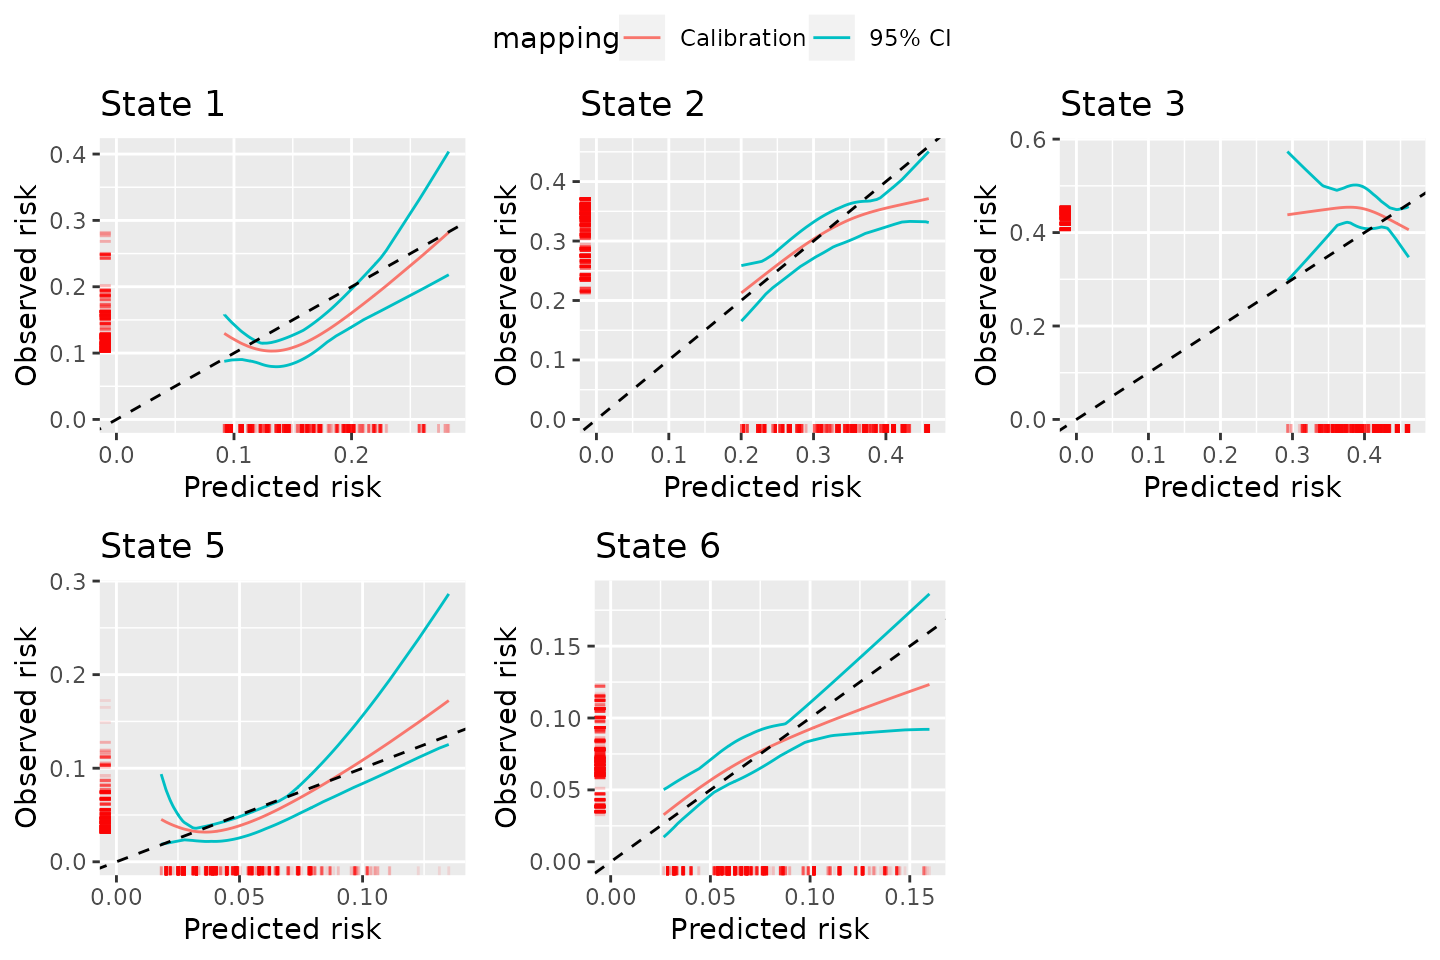
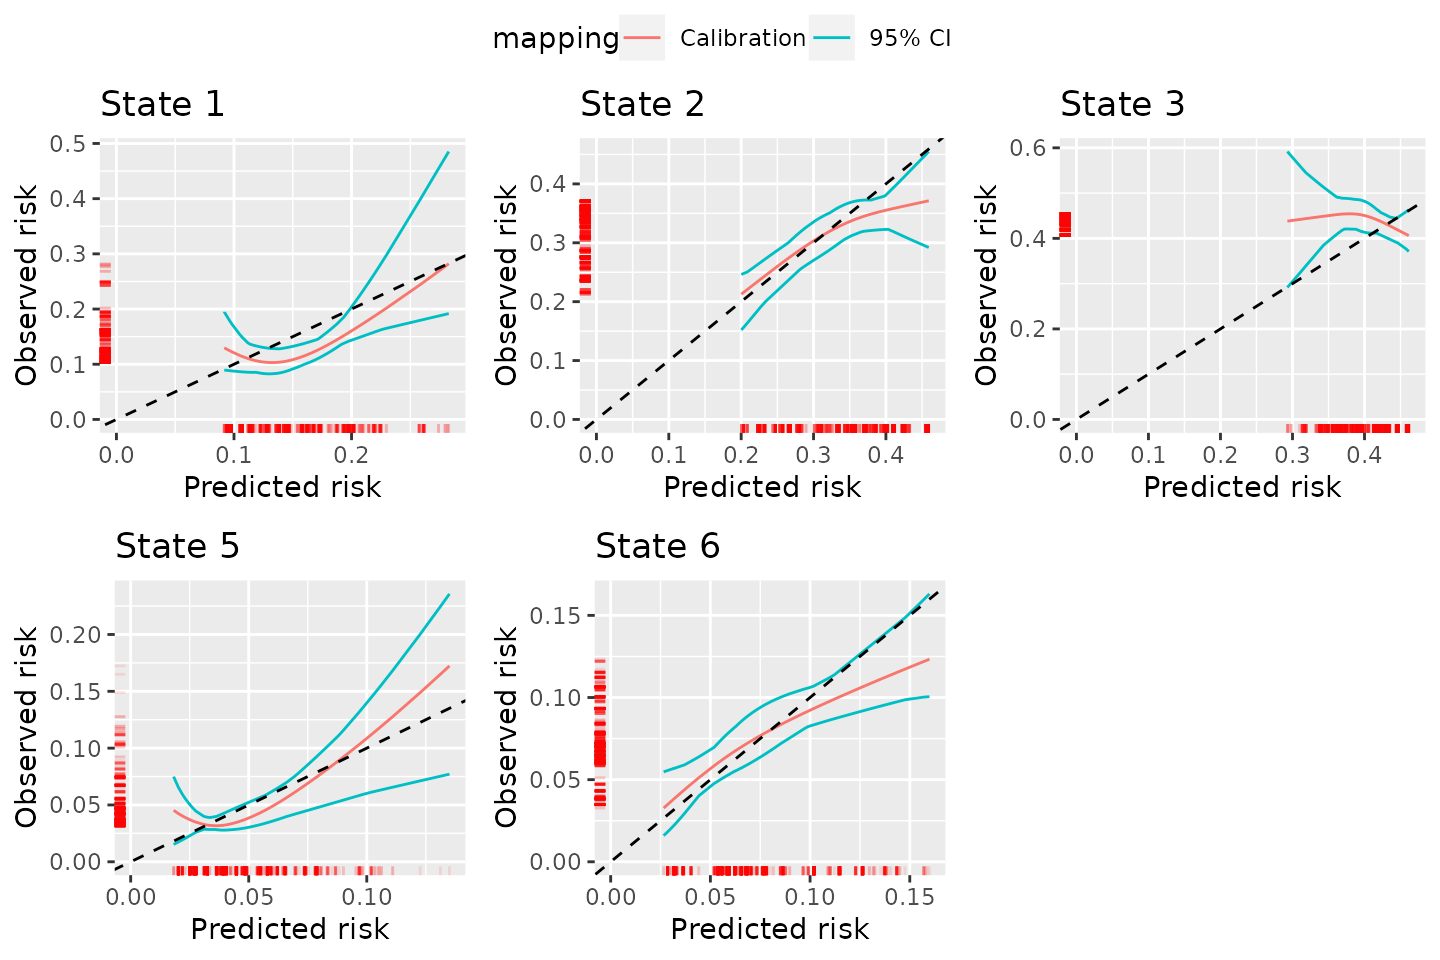
Deploying to gh-pages from @ alexpate30/calibmsm@fd2da9ec26762105f773ad9c85da25f2ff93fde9 🚀

diff --git a/reference/calib_blr.html b/reference/calib_blr.html
@@ -258,38 +258,38 @@ in the vignette XXXX.</p>
 <span class="r-out co"><span class="r-pr">#&gt;</span>   .. ..$ id       : int [1:1778] 2 4 5 7 10 13 14 16 18 19 ...</span>
 <span class="r-out co"><span class="r-pr">#&gt;</span>   .. ..$ pred     : num [1:1778] 0.114 0.1384 0.1233 0.0974 0.1137 ...</span>
 <span class="r-out co"><span class="r-pr">#&gt;</span>   .. ..$ obs      : num [1:1778] 0.11 0.104 0.105 0.124 0.11 ...</span>
-<span class="r-out co"><span class="r-pr">#&gt;</span>   .. ..$ obs.lower: num [1:1778] 0.0864 0.082 0.0827 0.0913 0.0866 ...</span>
-<span class="r-out co"><span class="r-pr">#&gt;</span>   .. ..$ obs.upper: num [1:1778] 0.136 0.135 0.13 0.165 0.136 ...</span>
+<span class="r-out co"><span class="r-pr">#&gt;</span>   .. ..$ obs.lower: num [1:1778] 0.0889 0.0831 0.0843 0.0811 0.0889 ...</span>
+<span class="r-out co"><span class="r-pr">#&gt;</span>   .. ..$ obs.upper: num [1:1778] 0.133 0.129 0.127 0.166 0.134 ...</span>
 <span class="r-out co"><span class="r-pr">#&gt;</span>   ..$ state2:'data.frame':	1778 obs. of  5 variables:</span>
 <span class="r-out co"><span class="r-pr">#&gt;</span>   .. ..$ id       : int [1:1778] 2 4 5 7 10 13 14 16 18 19 ...</span>
 <span class="r-out co"><span class="r-pr">#&gt;</span>   .. ..$ pred     : num [1:1778] 0.232 0.184 0.161 0.212 0.232 ...</span>
 <span class="r-out co"><span class="r-pr">#&gt;</span>   .. ..$ obs      : num [1:1778] 0.17 0.186 0.176 0.179 0.17 ...</span>
-<span class="r-out co"><span class="r-pr">#&gt;</span>   .. ..$ obs.lower: num [1:1778] 0.12 0.155 0.148 0.145 0.12 ...</span>
-<span class="r-out co"><span class="r-pr">#&gt;</span>   .. ..$ obs.upper: num [1:1778] 0.213 0.217 0.211 0.204 0.213 ...</span>
+<span class="r-out co"><span class="r-pr">#&gt;</span>   .. ..$ obs.lower: num [1:1778] 0.12 0.156 0.14 0.148 0.12 ...</span>
+<span class="r-out co"><span class="r-pr">#&gt;</span>   .. ..$ obs.upper: num [1:1778] 0.225 0.221 0.215 0.21 0.225 ...</span>
 <span class="r-out co"><span class="r-pr">#&gt;</span>   ..$ state3:'data.frame':	1778 obs. of  5 variables:</span>
 <span class="r-out co"><span class="r-pr">#&gt;</span>   .. ..$ id       : int [1:1778] 2 4 5 7 10 13 14 16 18 19 ...</span>
 <span class="r-out co"><span class="r-pr">#&gt;</span>   .. ..$ pred     : num [1:1778] 0.0844 0.0758 0.0551 0.0615 0.0844 ...</span>
 <span class="r-out co"><span class="r-pr">#&gt;</span>   .. ..$ obs      : num [1:1778] 0.1249 0.1167 0.0919 0.1001 0.1248 ...</span>
-<span class="r-out co"><span class="r-pr">#&gt;</span>   .. ..$ obs.lower: num [1:1778] 0.0911 0.0875 0.0477 0.0583 0.0911 ...</span>
-<span class="r-out co"><span class="r-pr">#&gt;</span>   .. ..$ obs.upper: num [1:1778] 0.152 0.142 0.133 0.135 0.152 ...</span>
+<span class="r-out co"><span class="r-pr">#&gt;</span>   .. ..$ obs.lower: num [1:1778] 0.0932 0.0889 0.0505 0.0655 0.0932 ...</span>
+<span class="r-out co"><span class="r-pr">#&gt;</span>   .. ..$ obs.upper: num [1:1778] 0.152 0.142 0.137 0.136 0.152 ...</span>
 <span class="r-out co"><span class="r-pr">#&gt;</span>   ..$ state4:'data.frame':	1778 obs. of  5 variables:</span>
 <span class="r-out co"><span class="r-pr">#&gt;</span>   .. ..$ id       : int [1:1778] 2 4 5 7 10 13 14 16 18 19 ...</span>
 <span class="r-out co"><span class="r-pr">#&gt;</span>   .. ..$ pred     : num [1:1778] 0.233 0.218 0.183 0.221 0.233 ...</span>
 <span class="r-out co"><span class="r-pr">#&gt;</span>   .. ..$ obs      : num [1:1778] 0.243 0.224 0.185 0.228 0.243 ...</span>
-<span class="r-out co"><span class="r-pr">#&gt;</span>   .. ..$ obs.lower: num [1:1778] 0.203 0.192 0.151 0.194 0.203 ...</span>
-<span class="r-out co"><span class="r-pr">#&gt;</span>   .. ..$ obs.upper: num [1:1778] 0.28 0.253 0.216 0.257 0.28 ...</span>
+<span class="r-out co"><span class="r-pr">#&gt;</span>   .. ..$ obs.lower: num [1:1778] 0.205 0.197 0.159 0.199 0.205 ...</span>
+<span class="r-out co"><span class="r-pr">#&gt;</span>   .. ..$ obs.upper: num [1:1778] 0.288 0.254 0.216 0.259 0.287 ...</span>
 <span class="r-out co"><span class="r-pr">#&gt;</span>   ..$ state5:'data.frame':	1778 obs. of  5 variables:</span>
 <span class="r-out co"><span class="r-pr">#&gt;</span>   .. ..$ id       : int [1:1778] 2 4 5 7 10 13 14 16 18 19 ...</span>
 <span class="r-out co"><span class="r-pr">#&gt;</span>   .. ..$ pred     : num [1:1778] 0.148 0.154 0.143 0.144 0.149 ...</span>
 <span class="r-out co"><span class="r-pr">#&gt;</span>   .. ..$ obs      : num [1:1778] 0.191 0.165 0.222 0.212 0.188 ...</span>
-<span class="r-out co"><span class="r-pr">#&gt;</span>   .. ..$ obs.lower: num [1:1778] 0.164 0.148 0.178 0.175 0.161 ...</span>
-<span class="r-out co"><span class="r-pr">#&gt;</span>   .. ..$ obs.upper: num [1:1778] 0.219 0.182 0.27 0.255 0.214 ...</span>
+<span class="r-out co"><span class="r-pr">#&gt;</span>   .. ..$ obs.lower: num [1:1778] 0.158 0.147 0.176 0.171 0.158 ...</span>
+<span class="r-out co"><span class="r-pr">#&gt;</span>   .. ..$ obs.upper: num [1:1778] 0.217 0.185 0.268 0.252 0.213 ...</span>
 <span class="r-out co"><span class="r-pr">#&gt;</span>   ..$ state6:'data.frame':	1778 obs. of  5 variables:</span>
 <span class="r-out co"><span class="r-pr">#&gt;</span>   .. ..$ id       : int [1:1778] 2 4 5 7 10 13 14 16 18 19 ...</span>
 <span class="r-out co"><span class="r-pr">#&gt;</span>   .. ..$ pred     : num [1:1778] 0.189 0.23 0.335 0.264 0.189 ...</span>
 <span class="r-out co"><span class="r-pr">#&gt;</span>   .. ..$ obs      : num [1:1778] 0.207 0.254 0.316 0.28 0.207 ...</span>
-<span class="r-out co"><span class="r-pr">#&gt;</span>   .. ..$ obs.lower: num [1:1778] 0.186 0.231 0.279 0.256 0.185 ...</span>
-<span class="r-out co"><span class="r-pr">#&gt;</span>   .. ..$ obs.upper: num [1:1778] 0.237 0.286 0.355 0.31 0.237 ...</span>
+<span class="r-out co"><span class="r-pr">#&gt;</span>   .. ..$ obs.lower: num [1:1778] 0.188 0.233 0.278 0.261 0.188 ...</span>
+<span class="r-out co"><span class="r-pr">#&gt;</span>   .. ..$ obs.upper: num [1:1778] 0.233 0.283 0.353 0.304 0.233 ...</span>
 <span class="r-out co"><span class="r-pr">#&gt;</span>  $ metadata:List of 8</span>
 <span class="r-out co"><span class="r-pr">#&gt;</span>   ..$ valid.transitions   : num [1:6] 1 2 3 4 5 6</span>
 <span class="r-out co"><span class="r-pr">#&gt;</span>   ..$ assessed.transitions: num [1:6] 1 2 3 4 5 6</span>

diff --git a/articles/Comparison-with-graphical-calibration-curves-in-competing-risks-setting.html b/articles/Comparison-with-graphical-calibration-curves-in-competing-risks-setting.html
@@ -221,11 +221,11 @@ the pseudo-value approach, implemented through
 <span>                 n.pctls <span class="op">=</span> <span class="fl">9</span>,</span>
 <span>                 CI <span class="op">=</span> <span class="fl">95</span>,</span>
 <span>                 CI.type <span class="op">=</span> <span class="st">"parametric"</span><span class="op">)</span></span>
-<span><span class="co">#&gt; [1] "Calculate pseudo values for state =  1 2023-06-14 15:51:48.473583"</span></span>
-<span><span class="co">#&gt; [1] "Calculate pseudo values for state =  2 2023-06-14 15:56:27.850374"</span></span>
-<span><span class="co">#&gt; [1] "Calculate pseudo values for state =  3 2023-06-14 16:01:04.810576"</span></span>
-<span><span class="co">#&gt; [1] "Calculate pseudo values for state =  5 2023-06-14 16:05:36.728207"</span></span>
-<span><span class="co">#&gt; [1] "Calculate pseudo values for state =  6 2023-06-14 16:09:56.406979"</span></span>
+<span><span class="co">#&gt; [1] "Calculate pseudo values for state =  1 2023-06-14 20:03:30.662251"</span></span>
+<span><span class="co">#&gt; [1] "Calculate pseudo values for state =  2 2023-06-14 20:07:44.082966"</span></span>
+<span><span class="co">#&gt; [1] "Calculate pseudo values for state =  3 2023-06-14 20:11:57.256971"</span></span>
+<span><span class="co">#&gt; [1] "Calculate pseudo values for state =  5 2023-06-14 20:16:08.805066"</span></span>
+<span><span class="co">#&gt; [1] "Calculate pseudo values for state =  6 2023-06-14 20:20:06.551367"</span></span>
 <span></span>
 <span><span class="co">### Turn into plot and print</span></span>
 <span><span class="va">plot.calibmsm.pv</span> <span class="op">&lt;-</span> <span class="fu"><a href="https://rdrr.io/r/graphics/plot.default.html" class="external-link">plot</a></span><span class="op">(</span><span class="va">dat.calib.pv</span>, combine <span class="op">=</span> <span class="cn">TRUE</span>, nrow <span class="op">=</span> <span class="fl">2</span>, ncol <span class="op">=</span> <span class="fl">3</span><span class="op">)</span></span></code></pre></div>

diff --git a/articles/overview.html b/articles/overview.html
@@ -77,7 +77,8 @@ which is rendered as a pdf and therefore cannot be directly viewed
 through the Github created website. Please ignore the tex error.</p>
 <pre><code><span><span class="co">## Warning in system("pdflatex overview_rnw.tex"): error in running command</span></span></code></pre>
 <!--- <iframe src="overview_rnw.pdf"/> -->
-<p><a href="overview_rnw.pdf" target="_blank">Vignette: overview</a></p>
+<p><a href="overview_rnw.pdf" target="_blank">Vignette:
+overview_rnw</a></p>
 <!-- If this continues not to work unless overview.pdf has already been defined, this may be the solution: -->
 <!-- https://tex.stackexchange.com/questions/429757/pdflatex-problem-with-rstudio -->
 <!-- and -->
